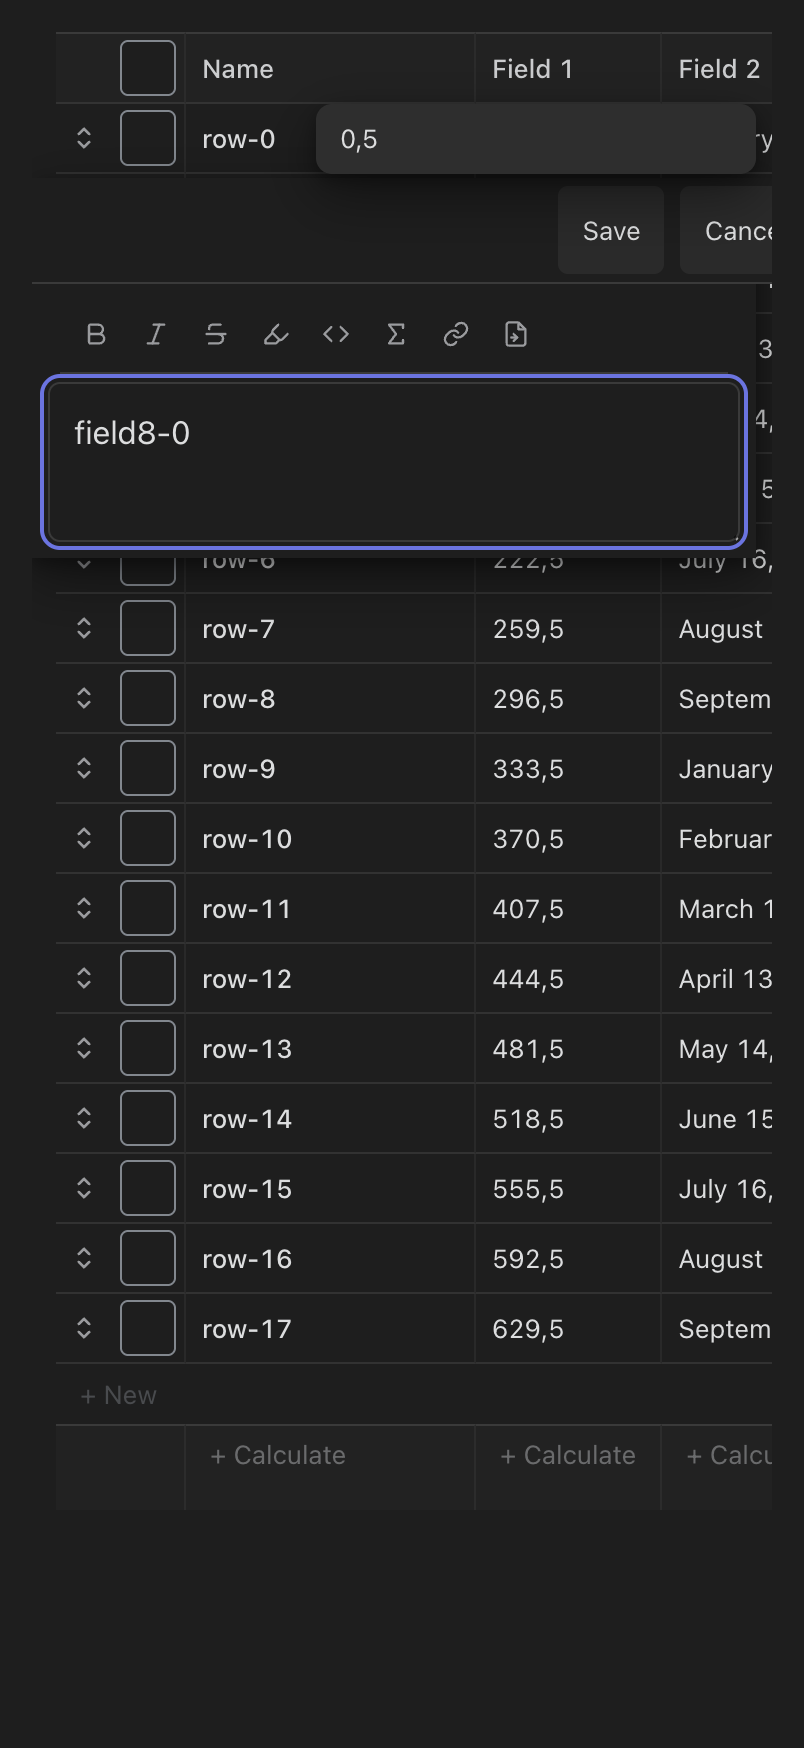
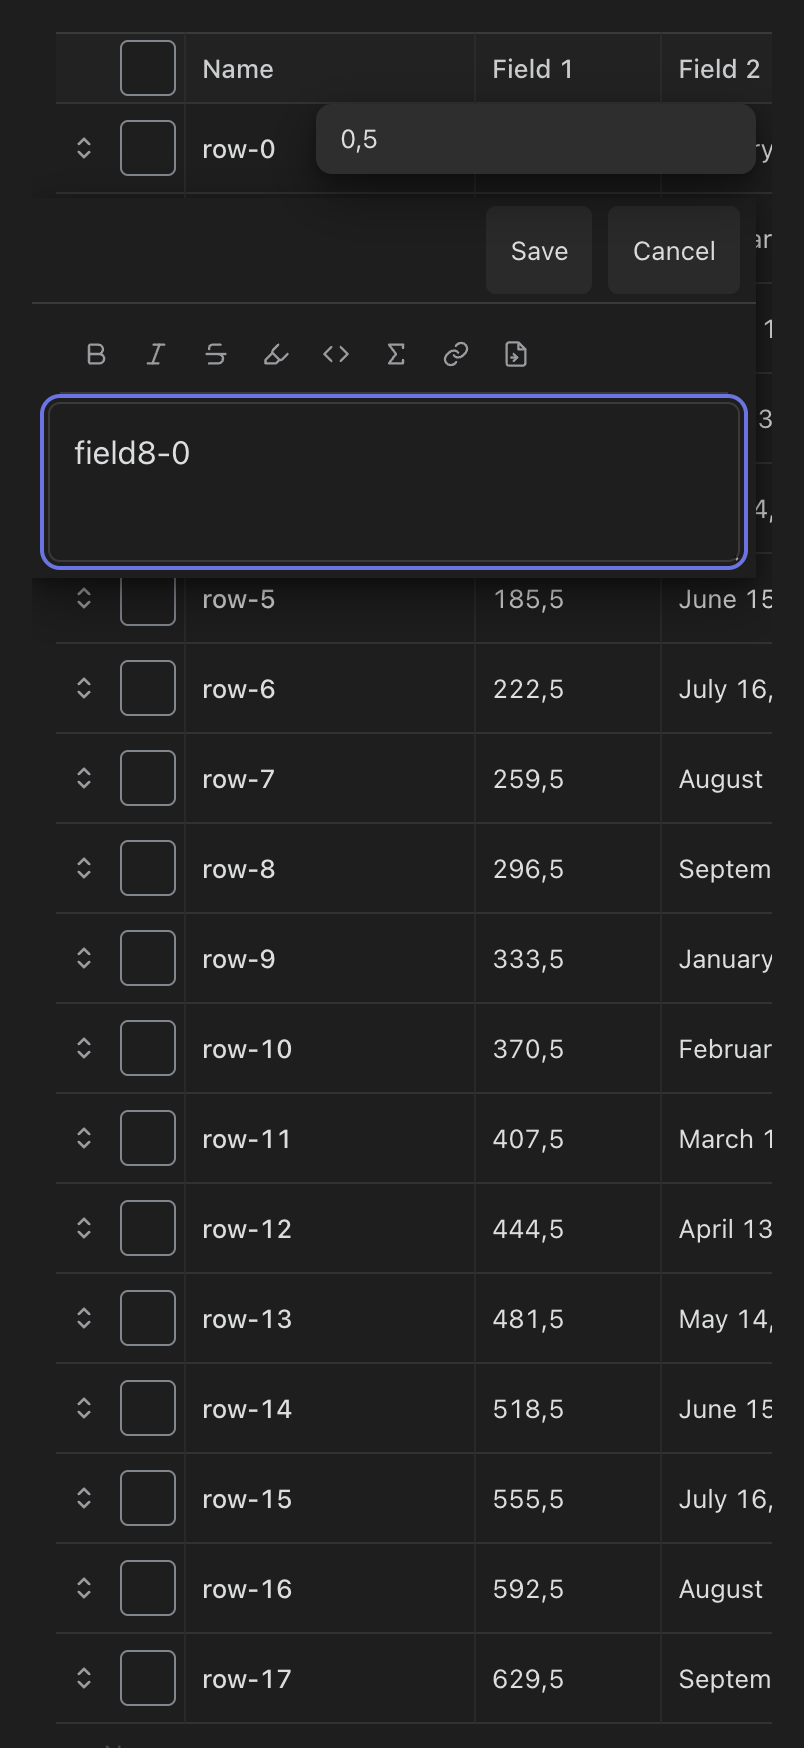
fix(sheets): stop the phone sheets scrolling sideways, at both producers
The operator reported against 0.0.27 that some sheets have horizontal
overflow. Two producers, measured on both engines at 390x844 before the
fix, and the lane was green over both because it had never looked at
them.

The mobile inline cell editor overflowed with the fixtures' own short
content and no long name needed: its sticky action row ran 36.0px past
the surface and the editor scrolled at 402/366 in Chrome, 410/374 in
WebKit. The docked variant reserves a 44px trailing gutter for its
absolutely positioned close and the row cancels it to run full bleed;
the inline-overlay variant -- the only one either phone producer mounts
-- resets that padding to 8px, and the pull kept reaching for 44. The
figure was written twice and the two drifted. It is now one custom
property both rules read, so a padding change cannot desync them again.

The second is content-dependent and reachable with any long property
name: ten of eleven sheet headers went to scroll widths of 615 to 687
against a 390px client width once the title was a single unbreakable
word. A flex item's automatic minimum size is its longest unbreakable
run and the header is one nowrap line, so the title widened the header
and pushed the close control off the edge. The eleventh sheet was the
record panel, whose title has carried min-width: 0 beside a word-break
since it was written -- the codebase was already holding its own
negative control. The shared sheet title now gets the same freedom to
shrink and to break.
[…]

diff --git a/styles.css b/styles.css
@@ -7505,13 +7505,19 @@ body.db-bottom-dock-taken .note-database-container .db-selection-status-bar {
   outline: none;
 }
 
+/* The trailing gutter is published as a variable because a second rule has to cancel it: the sticky
+   action row below runs full bleed and pulls itself back out by exactly this much. Writing the
+   figure twice is what let the two drift — the inline-overlay variant reset the padding to 8px and
+   the pull kept reaching for 44, so the row ran 36px past the surface and the editor scrolled
+   sideways on a phone that cannot pan. One declaration, read by both. */
 .db-cell-edit-popover.is-mobile {
+  --db-cell-edit-gutter-end: 44px;
   position: fixed;
   z-index: var(--db-layer-popover, 100);
   max-width: none;
   border-radius: var(--db-radius-lg) var(--db-radius-lg) 0 0;
   box-shadow: var(--db-elevation-3);
-  padding: 8px 44px 8px 8px;
+  padding: 8px var(--db-cell-edit-gutter-end) 8px 8px;
 }
 
 .db-cell-edit-popover.is-mobile .db-cell-textarea {
@@ -13262,6 +13268,19 @@ body.is-phone .note-database-container .db-record-detail-panel {
 .db-mobile-bottom-sheet .db-record-detail-title {
   font-size: var(--db-font-lg);
   font-weight: var(--db-font-lg-weight);
+}
+
+/* A flex item's automatic minimum size is the width of its longest unbreakable run, and the sheet
+   header lays out in a single nowrap line, so a title made of one long word does not truncate — it
+   widens the header, pushes the close control off the right edge and makes the whole surface scroll
+   sideways on a phone that cannot pan. The titles that carry a property, field or record name are
+   the user's words, not the plugin's, so no length can be assumed. `.db-record-detail-title` has
+   answered this since it was written (`min-width: 0` beside a `word-break`, § RECORD DETAIL) and is
+   the one sheet header that never overflowed; this gives the shared title the same freedom to break
+   at the surface it is measured against. */
+.db-mobile-bottom-sheet .db-panel-title {
+  min-width: 0;
+  overflow-wrap: anywhere;
 }
 
 /* The owned menu, icon picker, colour picker and date picker each mount their own body div — a
@@ -20607,6 +20626,9 @@ body.pm-resize-active * {
 
 /* 移动端内联编辑器覆盖层 */
 .db-cell-edit-popover.is-mobile.is-inline-overlay {
+  /* No close control sits over this variant, so it keeps no gutter for one — and the sticky action
+     row's pull reads the figure from here rather than assuming the docked editor's 44px. */
+  --db-cell-edit-gutter-end: 8px;
   position: absolute;        /* 非 fixed，跟随文档流 */
   left: 0;
   right: 0;
@@ -21116,7 +21138,7 @@ img.db-text-md-image {
   justify-content: flex-end;
   gap: 8px;
   min-height: 44px;
-  margin: -8px -44px 8px -8px;
+  margin: -8px calc(-1 * var(--db-cell-edit-gutter-end)) 8px -8px;
   padding: 4px 8px;
   border-bottom: 1px solid var(--background-modifier-border);
   background: var(--background-primary);
